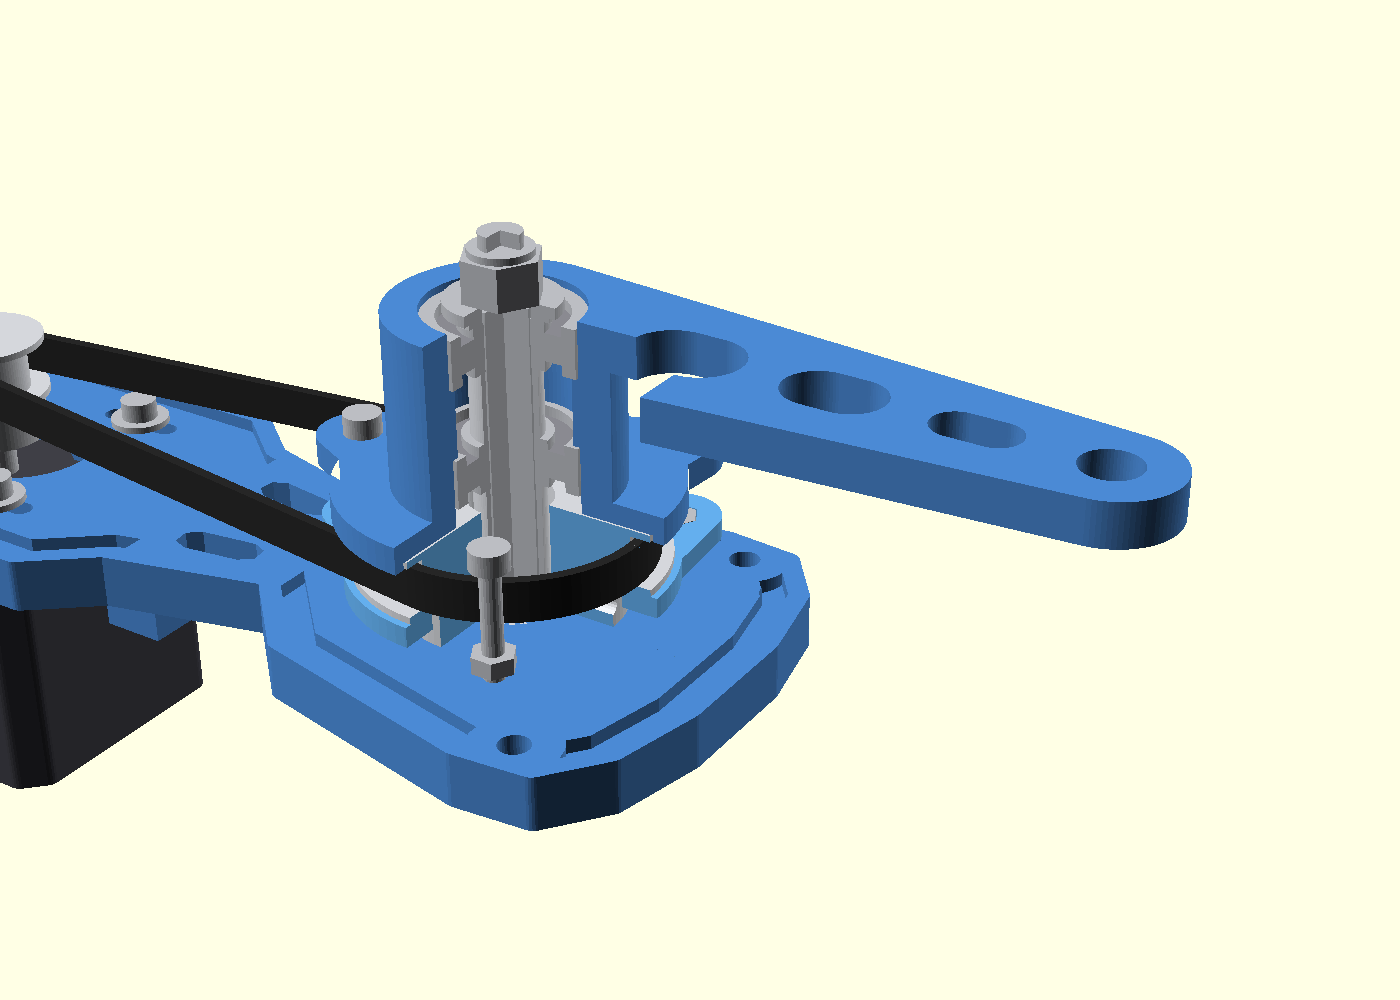
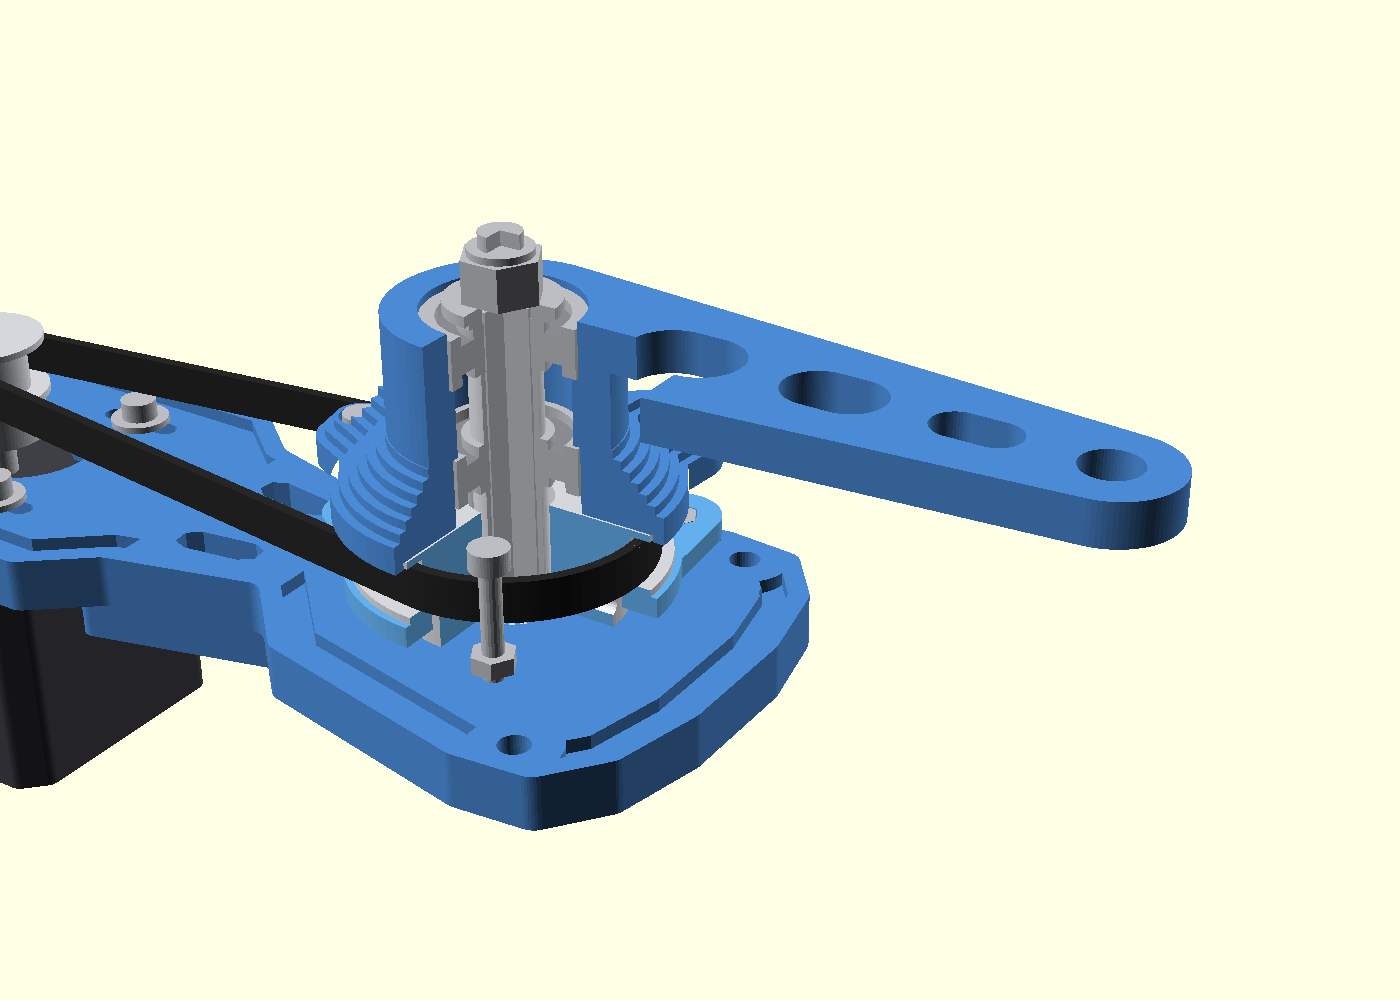
서포트 프리 출력 형상: 허브 플랜지 단차 지붕 + 볼트 헤드 카운터보어
- 플랜지 하향 평면(뒤집어 출력 시 유일한 서포트 요구부)을 1.3mm 단차 6단 지붕으로 대체
- 클램프 볼트 머리는 지붕 관통 Ø6.5 카운터보어에 안착, 수직 드라이버 접근 유지
- 베이스/링은 기존 방향에서 이미 서포트 불필요(브리지·꼭짓점-업 육각 포켓)
- 부피 92.8cm³ (-33%), print_parts.scad 출력 방향 주석 갱신

https://claude.ai/code/session_014RXXExQczonAJzcw2caz8Y

Changed region(s): [[0.215, 0.372, 0.3071, 0.558], [0.0614, 0.589, 0.215, 0.682], [0.43, 0.372, 0.4914, 0.527]]

diff --git a/DESIGN.md b/DESIGN.md
@@ -41,11 +41,17 @@
 | 부품 (솔리드 기준) | 기존 | 최적화 | 절감 |
 | ----------- | ---: | ---: | ---: |
 | 베이스 플레이트   | 101.2cm³ | 60.7cm³ | −40% |
-| 암 허브/암     | 32.5cm³ | 25.3cm³ | −22% |
+| 암 허브/암     | 32.5cm³ | 29.1cm³ | −10% |
 | 클램프 링      | 4.3cm³ | 3.0cm³ | −31% |
-| **합계**      | **138.0cm³** | **89.0cm³** | **−36%** (PETG 솔리드 환산 175g→113g) |
+| **합계**      | **138.0cm³** | **92.8cm³** | **−33%** (PETG 솔리드 환산 175g→118g) |
 
-실제 출력 시에는 인필 30~50%를 적용하므로 사용량은 더 줄어듭니다. 단품 STL은 `scad/print_parts.scad`에서 내보냅니다(베이스는 윗면을 베드에, 암 허브는 암 윗면을 베드에 — 권장 방향이 파일에 반영되어 있음).
+실제 출력 시에는 인필 30~50%를 적용하므로 사용량은 더 줄어듭니다. 단품 STL은 `scad/print_parts.scad`에서 내보냅니다.
+
+**서포트 프리 출력** — 세 부품 모두 서포트 없이 출력되도록 형상을 맞췄습니다.
+
+* 베이스: 윗면을 베드에. 잭 블록·웨이스트 리브는 위로 자라고, 패널라인 트렌치는 3.5mm 브리지, 잭 너트 포켓은 꼭짓점-업 육각(60° 벽)이라 모두 서포트 불필요.
+* 암 허브: 암 윗면을 베드에. 플랜지의 평평한 하향면을 **1.3mm 단차 지붕(지그래트) 6단**으로 받쳐 서포트를 제거(단차당 돌출 1.3mm). 클램프 볼트 머리는 지붕을 관통하는 Ø6.5 카운터보어 안에 안착하며 드라이버는 위에서 수직 진입. 베어링 단턱은 1mm 이하 링 브리지.
+* 클램프 링: 평면 부품, 너트 포켓 위로.
 
 ### 동작 원리 요약
 
